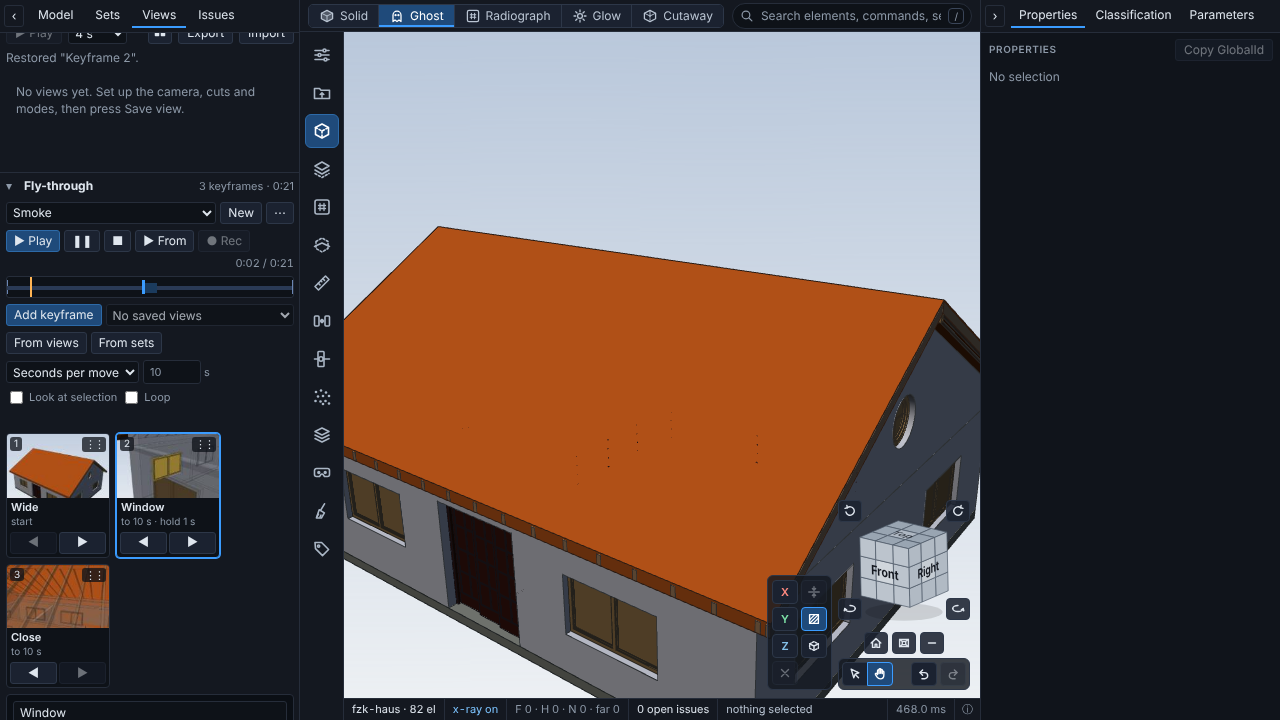
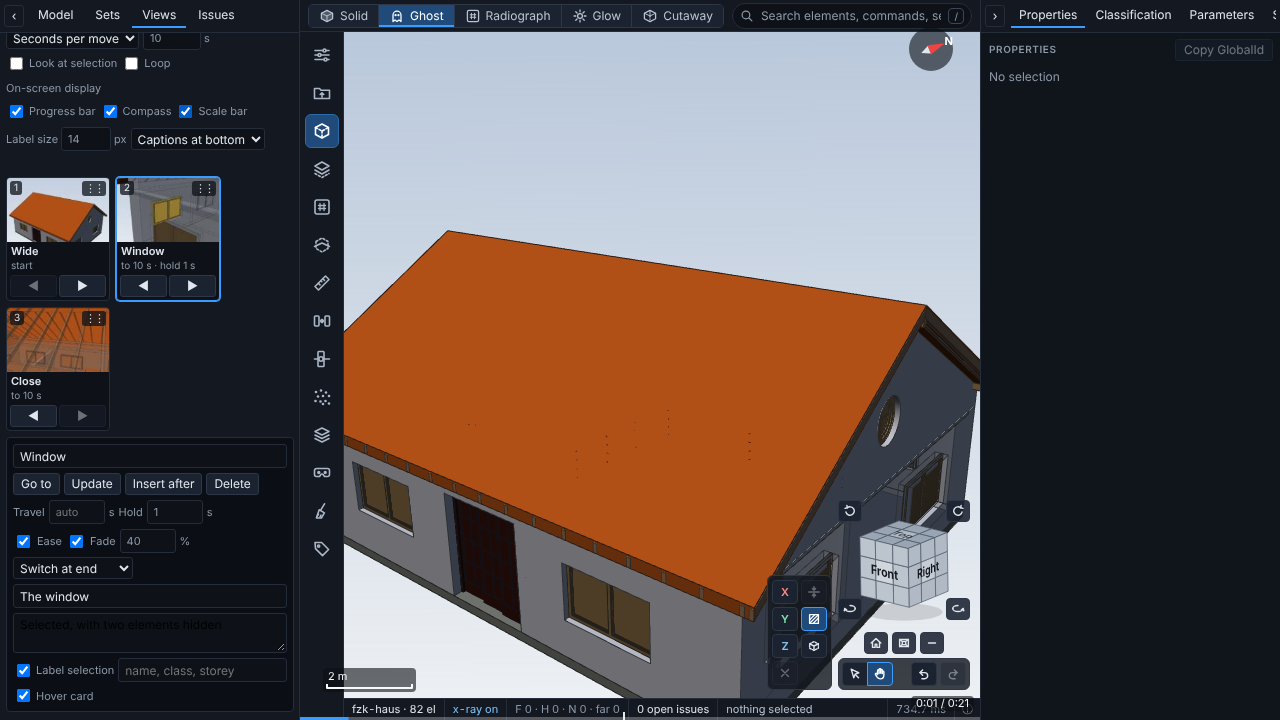
HUD: fly-through keyframe labels and hover card, HUD settings, docs, smokes, help texts
Claude-Session: https://claude.ai/code/session_01Tq8KrjEb682fwDG9hgfxsD

diff --git a/web/src/anim/script/scriptHelp.ts b/web/src/anim/script/scriptHelp.ts
@@ -24,8 +24,8 @@ export const STATEMENT_HELP: readonly StatementHelp[] = [
   { id: 'isolate', group: 'Visibility', syntax: 'isolate <elements> [fading over N seconds]', summary: 'Show only these elements and hide the rest.', example: 'isolate set "Pumps" fading over 1 seconds' },
   { id: 'select', group: 'Selection and notes', syntax: 'select <elements>   |   select nothing', summary: 'Select elements, or clear the selection. Instant.', example: 'select where storey = "Level 2"' },
   { id: 'caption', group: 'Selection and notes', syntax: 'caption "Title" ["More text"] [for N seconds]', summary: 'Show a caption. Lasts 3 seconds unless told, and the next statement waits for it.', example: 'caption "The pump room" "Four pumps feed the loop" for 4 seconds' },
-  { id: 'label', group: 'Selection and notes', syntax: 'label <elements> with <field>, <field> [for N seconds]', summary: 'Pin labels to the elements. Fields: name, class, storey, or a property as "Pset_X.Prop". Lasts 3 seconds.', example: 'label class IfcPump with name, storey, "Pset_PumpCommon.Reference" for 4 seconds' },
-  { id: 'hover', group: 'Selection and notes', syntax: 'hover <elements> [for N seconds]', summary: 'Show the hover highlight on the elements. Lasts 2 seconds unless told.', example: 'hover set "Pumps" for 2 seconds' },
+  { id: 'label', group: 'Selection and notes', syntax: 'label <elements> with <field>, <field> [for N seconds]', summary: 'Pin a tag to each element (at most 12 show, with "+N more"). Fields: name, class, storey, material, globalid, type, or a property as "Pset_X.Prop". Lasts 3 seconds.', example: 'label class IfcPump with name, storey, "Pset_PumpCommon.Reference" for 4 seconds' },
+  { id: 'hover', group: 'Selection and notes', syntax: 'hover <elements> [for N seconds]', summary: 'Show the hover card of the first element, near it with a leader line. Lasts 2 seconds unless told.', example: 'hover set "Pumps" for 2 seconds' },
   { id: 'wait', group: 'Timing and variables', syntax: 'wait N [seconds]', summary: 'Do nothing for a time.', example: 'wait 1.5 seconds' },
   { id: 'together', group: 'Timing and variables', syntax: 'together ... end together', summary: 'Start the statements inside at the same moment. The block lasts as long as the longest.', example: 'together\n  fly to class IfcPump over 3 seconds\n  caption "Pumps" for 3 seconds\nend together' },
   { id: 'repeat', group: 'Timing and variables', syntax: 'repeat N times ... end repeat', summary: 'Run the statements inside again and again. `index` counts from 1. At most 500 times.', example: 'repeat 3 times\n  orbit 120 degrees over 2 seconds\nend repeat' },

diff --git a/web/docs-features/flythrough.md b/web/docs-features/flythrough.md
@@ -9,7 +9,8 @@ A fly-through is a camera trip through **keyframes**. A keyframe is a full saved
 - **Cards** show the thumbnail, name and the move (`to 2 s`, `hold 1 s`). Click a card to select it and go to it. Reorder by dragging the grip, with the arrow buttons on the card, or Alt+Left / Alt+Right; Delete removes the card.
 - **Transport**: Play (from the start), Pause, Stop, **From** (play from the selected keyframe), Rec (record a webm). The bar shows the running time, a tick per keyframe, the holds and a playhead; click or drag it to jump.
 - **Timing**: *Constant speed* (default, metres per second, by arc length of the camera path; the turn of the view direction counts too) or *Seconds per move* (the same time for each move). **Look at selection** keeps the camera pointed at the selection of each keyframe. **Loop** repeats it.
-- **Editor of the selected keyframe**: name, Go to, Update (replace the state with the current view), Insert after, Delete, **Travel** (seconds into this keyframe; empty uses the timing), **Hold** (pause on arrival), **Ease**, **Fade** and its length, **Switch at** (start, middle or end of the move), caption title and text.
+- **Editor of the selected keyframe**: name, Go to, Update (replace the state with the current view), Insert after, Delete, **Travel** (seconds into this keyframe; empty uses the timing), **Hold** (pause on arrival), **Ease**, **Fade** and its length, **Switch at** (start, middle or end of the move), caption title and text, **Label selection** with the **fields** to show (empty: name, class, storey) and **Hover card**. Both need a selection in the keyframe (select, then Update).
+- **On-screen display**: the HUD settings of the model's fly-throughs (see [The HUD](#the-hud)): **Progress bar**, **Compass**, **Scale bar**, **Label size** and where captions show.
 
 While the Views tab is open with the section expanded, the camera path is drawn in 3D as a dashed line with a small camera marker per keyframe (the selected one white). It is off during playback, recording and thumbnail capture.
 
@@ -22,6 +23,7 @@ While the Views tab is open with the section expanded, the camera path is drawn 
 - **Visibility** cues for the elements that differ between two keyframes: newly shown elements fade in, newly hidden elements fade out, over the last 40 % of the move (per keyframe: fade on or off, fade length). Fading writes the per-element alpha (`renderer.state.alpha`) after the controller step, like the staggered reveal; the hide is applied when the fade ends. Without fade the change switches at *Switch at*.
 - A **select** cue shortly before arrival (0.8 s, at most 30 % of the move), so the cinematic reveal that follows a selection runs while the camera arrives. The selection fly-to is off while a score plays.
 - A **caption** cue at arrival, as long as the hold (2.5 s without a hold), as a lower third over the canvas.
+- A **label** cue (the keyframe's selection, its fields) and a **hover** cue (the first selected element) at arrival, as long as the caption, when *Label selection* or *Hover card* is on.
 
 ## While it plays
 
@@ -40,13 +42,30 @@ Space pauses and resumes, Left and Right go to the previous and next keyframe, E
 | `view` | a whole state: numbers in `params` blend, the rest (including selection, hidden, isolate, explode, preset) switch; its camera is used only when no `cameraPath` covers the cue |
 | `visibility` | `showAll`, then `isolate`, `show`, `hide`; with `dur > 0` the elements that appear or disappear fade, else they switch at `switchAt` |
 | `select` | the elements (or none); `switchAt` default start |
-| `caption` | the lower third for the cue's length |
-| `label`, `hover` | phase 2: skipped |
+| `caption` | the lower third for the cue's length (drawn by the HUD) |
+| `label` | a tag per element with the fields, pinned to the element (drawn by the HUD) |
+| `hover` | the hover card of the first element with a leader line (drawn by the HUD) |
 | other kinds | skipped |
 
 Element references (`globalIds`, `query` in the criteria language, `set` by name, `selection`, `all`) are resolved once when playback starts; `selection` is read when its cue runs. A seek restores the state and replays every cue up to the new time.
 
 The two legacy-only settings `post.ao` and `post.vignette` (ambient occlusion and vignette of the old fly-through toggles) are accepted as `param` paths; they are not part of the params document.
+
+## The HUD
+
+Everything that shows over the 3D view while a score plays is drawn by **one layer** (`src/anim/hud/layer.ts`, `ScoreHudLayer`) into a 2D canvas context; there is no DOM for HUD content. On screen the layer draws into an overlay canvas (`canvas.xray-hud`, `src/anim/hud/overlay.ts`) that covers the viewer canvas, takes no pointer input, follows the canvas size and the device pixel ratio, is redrawn every frame while a score plays (also while paused) and cleared and hidden otherwise. The layer is registered with `setHudLayer` (`src/anim/hud.ts`); the video export draws the same layer into each frame. It is stateless apart from the score (the score host hands it over in `begin`): the picture depends on the time, the size and the projection of the frame only.
+
+- **Captions**: a lower third with title and text on a dark panel with an accent bar. It fades in and out over 0.3 s (less for a short caption), wraps to the width, keeps 12 px or 4 % of the width from the edges and uses larger text on a phone. The setting *Captions at bottom / top* moves it. When two overlap, the later one shows.
+- **Labels** (`label` cue): one tag per element, pinned at the centre of the element's bounding box with a leader line and a dot. Fields: `name`, `class`, `storey`, `material`, `globalid`, `type` (the predefined type or object type) and any property key such as `Pset_WallCommon.FireRating` (shown as `FireRating: 2HR`); the same data as the hover card and the Properties list. A field without a value is left out. Tags are placed greedily (up-right, up-left, down-right, down-left, right, left of the element, the ones nearest the screen centre first) and never overlap each other, the caption, the hover card, the compass or the scale bar. Elements behind the camera or off the frame get no tag. At most 12 tags show; a pill **+N more** counts the rest, and the tags that found no room. Tags fade with the cue.
+- **Hover card** (`hover` cue): the content of the hover card (title, class, storey and material, the filtered properties; not the live x-ray line) for the first element of the cue, drawn near the element with a leader line, for the cue's length.
+- **Progress bar**: a 3 px bar at the bottom with a mark per chapter (a fly-through: the arrival at each keyframe; a script: the start of each caption and label) and the elapsed and total time. On by default.
+- **Compass** (off by default): a north arrow in the top right corner. North is the map's place when the map has one, else the IfcSite `TrueNorth` of the model, else project +Y.
+- **Scale bar** (off by default): a round length (1, 2 or 5 times a power of ten metres) at the bottom left, sized from the distance at the centre of the screen.
+- **Settings** live in the fly-through document (`hud`: `progress`, `compass`, `scaleBar`, `labelSize` 9 to 28, `captionPosition`), stored and exported with the fly-throughs, per model. They are not in the params or share links. Scripts use the same settings.
+
+Label fields and captions are user choices and user text: they stay in the fly-through store and its export, never in the params, share links, saved views or packed pages.
+
+`window.__xrayFlythrough.hud()`, `setHud(patch)` and `hudState()` (is something drawn, the size, and the last description: caption, labels, hover card, progress, compass and scale with their rectangles) serve scripts and smoke tests.
 
 ## Storage and privacy
 
@@ -56,8 +75,8 @@ Captions are user text. They live only in the fly-through store and its explicit
 
 ## Scripts and smoke tests
 
-`window.__xrayFlythrough`: `list`, `active`, `setActive`, `create`, `rename`, `duplicate`, `removeFlythrough`, `setOptions`, `keyframes`, `add({ view?, at?, name?, hold?, ... })`, `update(index, patch)`, `remove`, `move`, `clear`, `buildFromViews`, `buildFromSets`, `play({ fromKeyframe?, from?, restore?, onEnd? })`, `pause`, `resume`, `stop`, `seek`, `step`, `record`, `state`, `compile` (the score), `timing`, `exportJson`, `importJson`. `window.__cinematic.play`, `record`, `stop` and the `keys` getter keep working on the new player. Smoke test: `bench/smoke-flythrough.mjs`.
+`window.__xrayFlythrough`: `list`, `active`, `setActive`, `create`, `rename`, `duplicate`, `removeFlythrough`, `setOptions`, `keyframes`, `add({ view?, at?, name?, hold?, ... })`, `update(index, patch)`, `remove`, `move`, `clear`, `buildFromViews`, `buildFromSets`, `play({ fromKeyframe?, from?, restore?, onEnd? })`, `pause`, `resume`, `stop`, `seek`, `step`, `record`, `state`, `compile` (the score), `timing`, `exportJson`, `importJson`, `hud`, `setHud`, `hudState`. `window.__cinematic.play`, `record`, `stop` and the `keys` getter keep working on the new player. Smoke test: `bench/smoke-flythrough.mjs`.
 
-## Not done (phase 1)
+## Not done
 
-Better recording (fixed frame rate, resolution), HUD labels and hover cues (`label`, `hover`), the Cinematic tour and the saved-view slide show (`views.play`) still use their own simple players.
+Better recording (fixed frame rate, resolution; the video export is separate work), the Cinematic tour and the saved-view slide show (`views.play`) still use their own simple players.

diff --git a/docs/SETTINGS.md b/docs/SETTINGS.md
@@ -569,6 +569,14 @@ Impact follows the same sentence rules and adds these:
 | Fly-through switch | The list sets when a discrete change happens in a move: at the start, middle or end. | Pick when yes-or-no changes happen on the way: at the start, the middle or the end. Smooth values keep sliding. | Select At end so a change arrives with the camera. | Report: Onboarding checklist |
 | Fly-through caption title | The box holds a short title that shows over the view while the film stays on this keyframe. | The words appear in a bar at the bottom of the screen when the camera arrives. | Type a title. Leave it empty for none. | Report: Onboarding checklist |
 | Fly-through caption text | The box holds the caption text that shows under the title. Captions stay in the fly-through file and nowhere else. | A line of explanation appears under the title for viewers. Share links never carry it. | Type a short note. Keep it brief. | Report: Onboarding checklist |
+| Fly-through progress bar | The switch draws a thin bar at the bottom of the view during playback. It has a mark for each chapter and the time. | On, a line fills from left to right as the film runs. Off, the bottom edge stays clear. | Tick the box for a film that people watch. Clear it for a clean recording. | Report: Onboarding checklist |
+| Fly-through compass | The switch draws a north arrow in the top right corner during playback. It follows the true north of the model. | On, a small dial shows which way is north as the camera turns. Off, no dial shows. | Tick the box when viewers must know the site direction. | Report: Onboarding checklist |
+| Fly-through scale bar | The switch draws a length bar at the bottom left during playback. The bar spans a round number of metres at the centre of the view. | On, a short rule with a distance appears and changes as the camera moves in or out. Off, no rule shows. | Tick the box when viewers must judge sizes. | Report: Onboarding checklist |
+| Fly-through label size | The box sets the text height of the element tags in pixels. The value must be from 9 to 28. | A higher value makes the tags bigger and easier to read on a phone. A lower value makes them smaller and fit more tags. | Type 16 or more for a small screen. | Report: Onboarding checklist |
+| Fly-through caption position | The list sets where captions show on the view: at the bottom or at the top. | Bottom puts the text by the lower edge, like a film. Top moves it up and frees the lower part. | Choose Top when the model fills the lower part of the view. | Report: Onboarding checklist |
+| Fly-through label selection | The switch adds a tag to each selected element while the film stays on this keyframe. A keyframe needs a selection first. | On, a small box with text points at every chosen part. Off, the parts show no text. | Select the parts. Press Update. Tick the box. | Report: Onboarding checklist |
+| Fly-through label fields | The box lists the facts that each tag shows, separated by commas. The names are name, class, storey, material, globalid and type. | Each fact adds a line to the tag. An empty box shows the usual three facts. | Type a property key such as Pset_WallCommon.FireRating to show that value. | Report: Onboarding checklist |
+| Fly-through hover card | The switch shows the info card of the first selected element while the film stays on this keyframe. | On, an info box with a line to the part shows by itself. Off, it stays away. | Tick the box to explain a single part in detail. | Report: Onboarding checklist |
 | Fly-through rename | The command changes the name of the fly-through. | Click and a box asks for a new label for the trip. | Click the command. Type a name. | Report: Onboarding checklist |
 | Fly-through duplicate | The command copies the fly-through with all keyframes. | Click and a twin of the trip appears. Edit the twin and keep the original. | Click the command. Then edit the copy. | Report: Onboarding checklist |
 | Fly-through export | The command downloads the fly-through as a JSON file, with captions and pictures. | Click and your browser saves a file with this trip. Send it to a colleague or keep it as a backup. | Click the command. Keep the file private if the captions are private. | Report: Onboarding checklist |

diff --git a/web/docs-features/animation-script.md b/web/docs-features/animation-script.md
@@ -53,8 +53,8 @@ select nothing
 
 - `select <elements> | select nothing`: Select elements, or clear the selection. Instant.
 - `caption "Title" ["More text"] [for N seconds]`: Show a caption. Lasts 3 seconds unless told, and the next statement waits for it.
-- `label <elements> with <field>, <field> [for N seconds]`: Pin labels to the elements. Fields: name, class, storey, or a property as "Pset_X.Prop". Lasts 3 seconds.
-- `hover <elements> [for N seconds]`: Show the hover highlight on the elements. Lasts 2 seconds unless told.
+- `label <elements> with <field>, <field> [for N seconds]`: Pin a tag to each element (at most 12 show, with "+N more"). Fields: name, class, storey, material, globalid, type, or a property as "Pset_X.Prop". Lasts 3 seconds.
+- `hover <elements> [for N seconds]`: Show the hover card of the first element, near it with a leader line. Lasts 2 seconds unless told.
 
 ### Timing and variables
 
@@ -111,6 +111,10 @@ the cue.
 Every cue has `line`, the line of the script, which the editor highlights while the cue plays. Elements stay references (a query, a set
 name, GlobalIds, the selection) for the player to resolve when playback starts. Only `repeat for each element` needs the model while
 compiling: it expands to one pass per element, with `it` as `{ globalIds: [id] }`. Without a model it is an error.
+
+## The HUD
+
+Captions, labels and the hover card are drawn by the HUD layer over the view, not by the player: see [Fly-through, The HUD](flythrough.md#the-hud) for how they look (fade in and out over 0.3 s, word wrap, safe margins, no overlapping tags). The progress bar (chapter marks at the start of each caption and label), the compass and the scale bar come from the HUD settings in the **Fly-through** section of the Views tab (**On-screen display**); they apply to scripts too and are stored with the model's fly-throughs, not in the script.
 
 ## The Script tab
 

diff --git a/README.md b/README.md
@@ -19,7 +19,7 @@ plugins (see "Development"), so every feature below is a separate module with it
   - Optional map under the model (satellite or street map, off by default; sends the project location to the tile server when on) ([map.md](web/docs-features/map.md)).
   - Section box and section plane with caps ([section.md](web/docs-features/section.md)).
   - Cinematic effects: fly-to, tour, sweep and reveal, exploded storeys, bloom, edge glow, depth grading.
-  - Fly-through: keyframes that are saved-view states plus timing (constant speed, holds, ease, fades, captions), edited in a timeline in the Views tab and played by one score player, with a 3D camera-path overlay and webm recording ([flythrough.md](web/docs-features/flythrough.md)).
+  - Fly-through: keyframes that are saved-view states plus timing (constant speed, holds, ease, fades, captions), edited in a timeline in the Views tab and played by one score player, with a 3D camera-path overlay, webm recording and an on-screen HUD (captions, element labels, hover card, progress bar, compass, scale bar; one layer drawn into a 2D canvas) ([flythrough.md](web/docs-features/flythrough.md)).
   - Animation scripts: a short English-like script (`fly to class IfcPump over 3 seconds`, `hide class IfcSlab fading over 2 seconds`, captions, loops over elements and sets) that animates the camera, settings, visibility and selection, written in the Script tab with live error messages and examples ([animation-script.md](web/docs-features/animation-script.md)).
   - Presets: thirteen named looks on keys `1` to `9` ([presets.md](web/docs-features/presets.md)).
   - Top bar: four visualisation modes (Ghost, Radiograph, Glow, Cutaway, keys `Shift+1` to `Shift+4`) that apply built-in presets, and a host for the search bar ([topbar.md](web/docs-features/topbar.md)).
